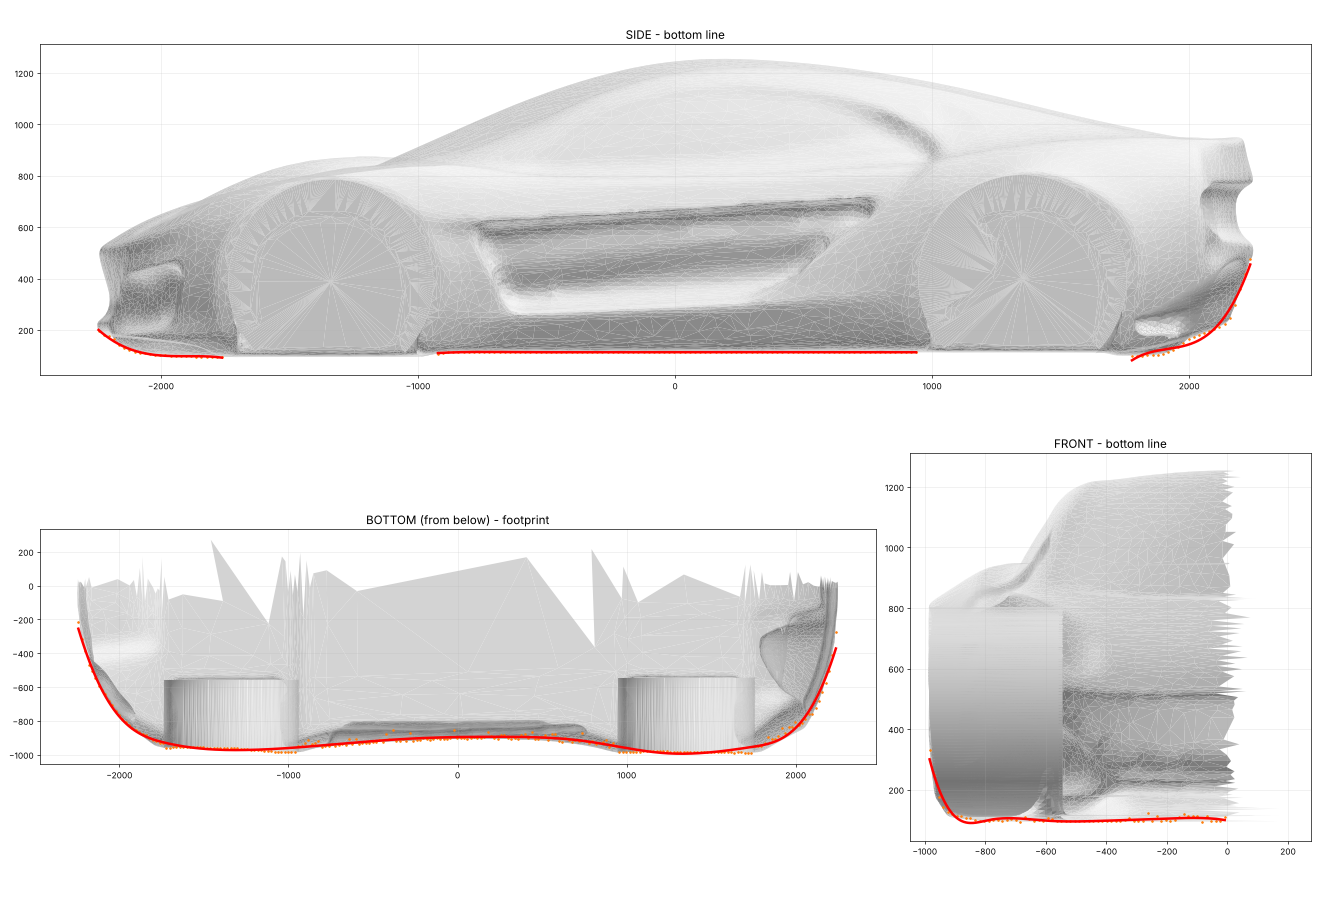
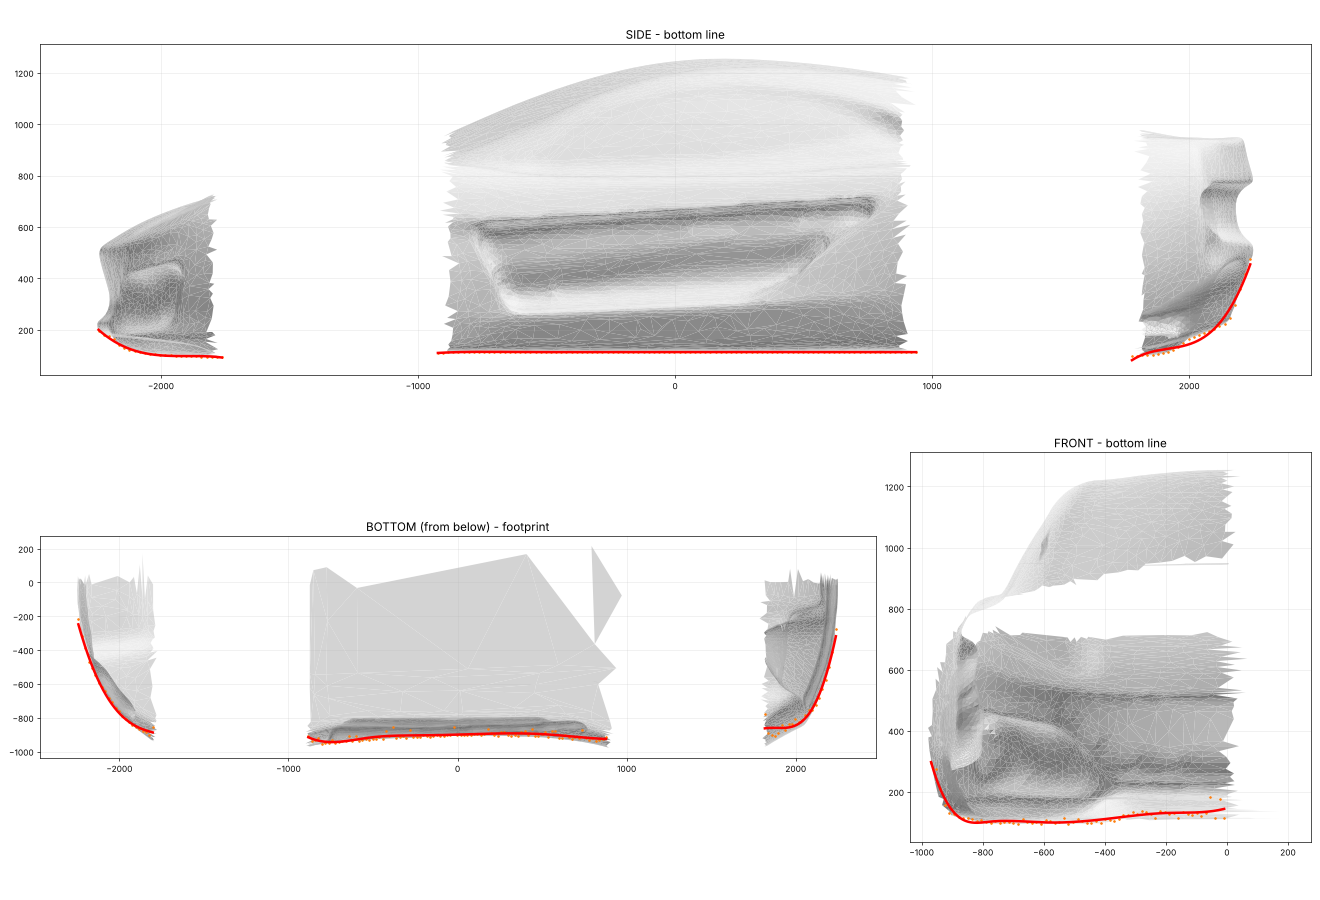
Wrapped-STL step 1: bottom lines without wheels (gaps at wheel openings)
Claude-Session: https://claude.ai/code/session_012Xak8rqFikb8wfTBjxDN3k

diff --git a/car_stl/tools/bottom_views.py b/car_stl/tools/bottom_views.py
@@ -12,6 +12,13 @@ from matplotlib.collections import PolyCollection
 m = trimesh.load(sys.argv[1], force='mesh'); P = json.load(open(sys.argv[2])); OUT = sys.argv[3]
 V, F, fn, fc = m.vertices, m.faces, m.face_normals, m.triangles_center
 half = fc[:, 1] <= 5
+WIN = [(P[k]["x"], P[k]["r"] + g + 25, P[k]["wall"]) for k, g in (("front", 12.0), ("rear", 8.0))]
+def wheel_zone(X, Y=None):
+    z = np.zeros(len(X), bool)
+    for xc, hw, wall in WIN:
+        z |= np.abs(X - xc) < hw + 40      # 40 mm margin: the window edge is unreliable
+    return z
+body_f = half & ~wheel_zone(fc[:, 0])            # body faces only: no wells, no wheels
 B = m.bounds
 
 
@@ -52,10 +59,12 @@ Vb = V[np.unique(F[half])]
 inw = np.zeros(len(Vb), bool)
 for k, gap in (("front", 12.0), ("rear", 8.0)):
     w = P[k]; inw |= (np.abs(Vb[:, 0] - w["x"]) < w["r"] + gap + 5) & (Vb[:, 1] < -w["wall"] + 5)
-front_raw = binned(Vb[~inw, 1], Vb[~inw, 2], B[0, 1] + 5, 0, 15.0, np.min)
+kb = ~wheel_zone(Vb[:, 0])
+front_raw = binned(Vb[kb, 1], Vb[kb, 2], B[0, 1] + 5, 0, 15.0, np.min)
 front = lsq(front_raw[:, 0], front_raw[:, 1], 8)
 # BOTTOM: footprint - outermost |y| of the underside per x
-foot_raw = binned(Vd[:, 0], Vd[:, 1], B[0, 0] + 5, B[1, 0] - 5, 20.0, np.min)
+keep = ~wheel_zone(Vd[:, 0])
+foot_raw = binned(Vd[keep, 0], Vd[keep, 1], B[0, 0] + 5, B[1, 0] - 5, 20.0, np.min)
 fsegs = np.split(foot_raw, np.where(np.diff(foot_raw[:, 0]) > 40)[0] + 1)
 foot = [lsq(s[:, 0], s[:, 1], max(4, min(12, int(np.ptp(s[:, 0]) / 200)))) for s in fsegs if len(s) > 6]
 json.dump(dict(side=[s.tolist() for s in side], front=front.tolist(), bottom=[s.tolist() for s in foot],
@@ -67,8 +76,8 @@ for s in foot: print("BOTTOM x %5.0f..%5.0f  y %5.0f..%5.0f" % (s[0, 0], s[-1, 0
 Lt = np.array([0.35, -0.55, 0.75]); Lt /= np.linalg.norm(Lt)
 fig = plt.figure(figsize=(22, 15)); gs = fig.add_gridspec(2, 3, height_ratios=[1, 1.3])
 aS, aB, aF = fig.add_subplot(gs[0, :]), fig.add_subplot(gs[1, :2]), fig.add_subplot(gs[1, 2])
-for a, i, j, sel, title in ((aS, 0, 2, half & (fn[:, 1] < 0), "SIDE - bottom line"), (aB, 0, 1, half & (fn[:, 2] < 0), "BOTTOM (from below) - footprint"),
-                            (aF, 1, 2, half & (fn[:, 0] < 0), "FRONT - bottom line")):
+for a, i, j, sel, title in ((aS, 0, 2, body_f & (fn[:, 1] < 0), "SIDE - bottom line"), (aB, 0, 1, body_f & (fn[:, 2] < 0), "BOTTOM (from below) - footprint"),
+                            (aF, 1, 2, body_f & (fn[:, 0] < 0), "FRONT - bottom line")):
     sh = 0.45 + 0.5 * np.clip(np.abs(fn[sel] @ Lt), 0, 1)
     a.add_collection(PolyCollection(V[F[sel]][:, :, [i, j]], facecolors=plt.cm.gray(sh), edgecolors='none'))
     a.autoscale(); a.set_aspect('equal'); a.set_title(title, fontsize=14); a.grid(alpha=.25)
